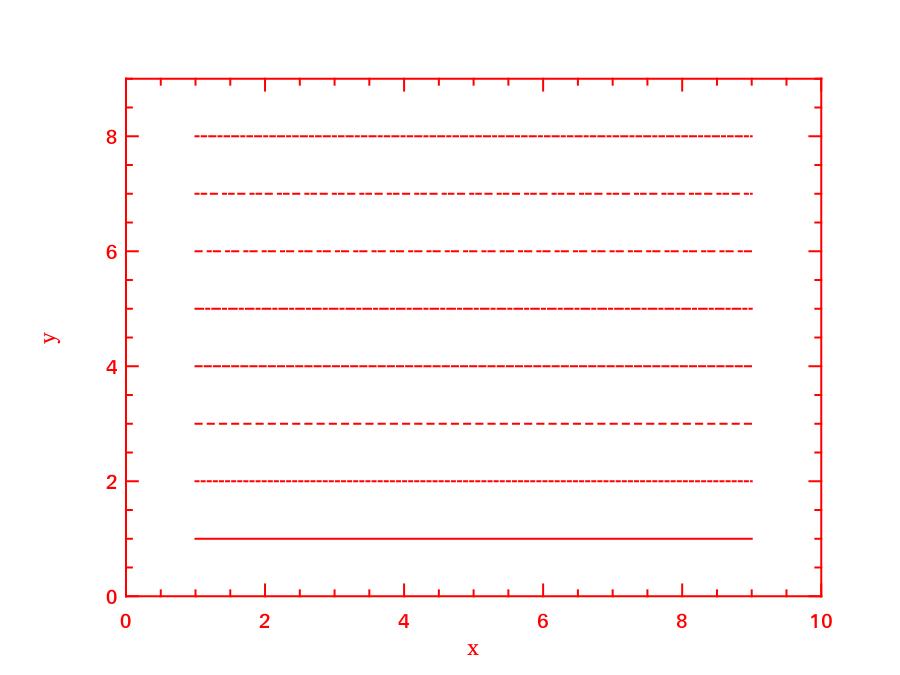
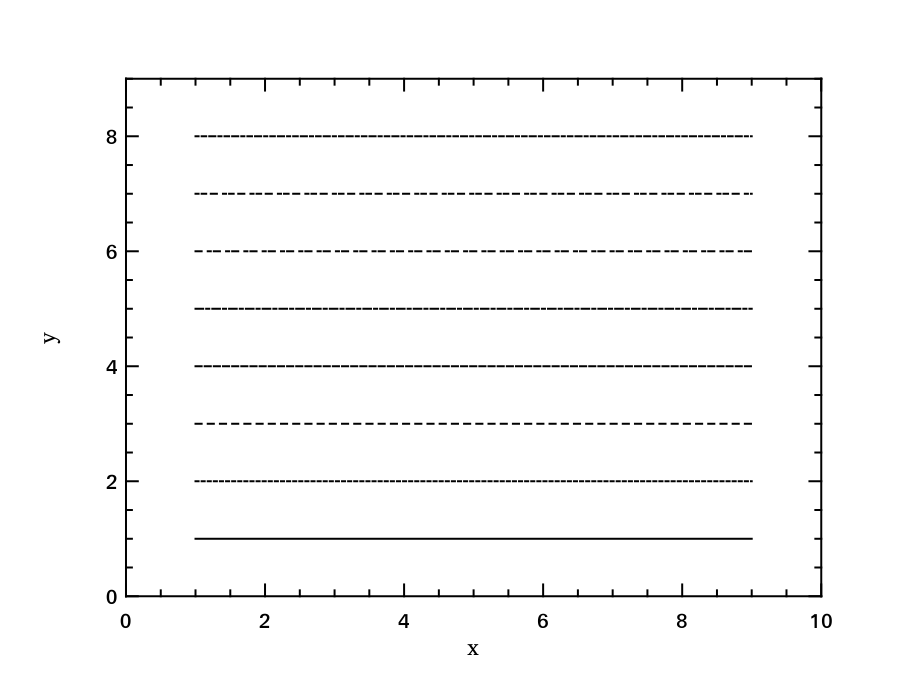
editing book ...

diff --git a/book/visualisation/README.md b/book/visualisation/README.md
@@ -22,8 +22,6 @@ This chapter teaches you how to use visualisation functionality in Owl.
 # let f x = Maths.sin x /. x in
   let h = Plot.create "plot_001.png" in
 
-  Plot.set_foreground_color h 0 0 0;
-  Plot.set_background_color h 255 255 255;
   Plot.set_title h "Function: f(x) = sine x / x";
   Plot.set_xlabel h "x-axis";
   Plot.set_ylabel h "y-axis";
@@ -105,7 +103,7 @@ Another example follows,
 
   (* focus on the subplot at 1,1 *)
   Plot.subplot h 1 1;
-  Plot.set_foreground_color h 0 50 255;
+  Plot.set_foreground_color h 255 0 0;
   Plot.set_title h "Sine function";
   Plot.(plot_fun ~h ~spec:[ LineStyle 2 ] Maths.sin 0. 28.);
   Plot.autocorr ~h (Mat.sequential 1 28);
